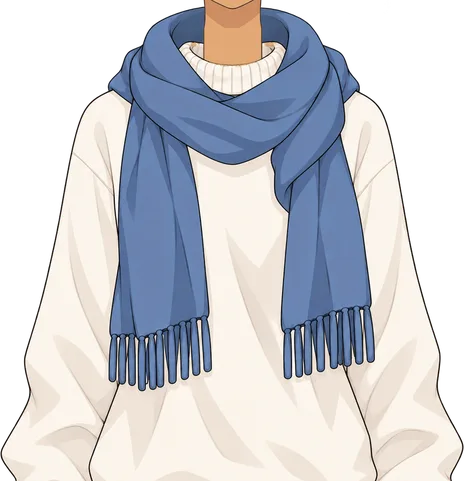
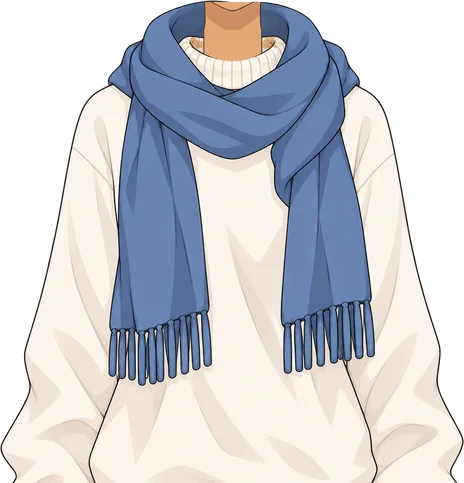
Sweater & scarf: slightly shorter neck

diff --git a/sw.js b/sw.js
@@ -1,5 +1,5 @@
 // Network first, cache as fallback: updates show up right away when online, and the app still opens offline.
-const CACHE = 'pumpelek-v18';
+const CACHE = 'pumpelek-v19';
 const ASSETS = [
   './', 'index.html', 'manifest.webmanifest', 'css/style.css',
   'js/util.js', 'js/seed.js', 'js/avatar-art.js', 'js/avatar.js', 'js/store.js', 'js/srs.js', 'js/csv.js',

diff --git a/tools/avatar-art/export_outfits.py b/tools/avatar-art/export_outfits.py
@@ -93,7 +93,7 @@ for n, t in T.items():
         sa = np.array(s)
         # the neck goes down to the inner front edge of the turtleneck: a shallow smile-shaped curve (marked by hand on the picture)
         for x in range(sa.shape[1]):
-            lim = int(round(724 - 14 * ((x - 561) / 58.0) ** 2)) - 2
+            lim = int(round(709 - 14 * ((x - 561) / 58.0) ** 2)) - 2
             sa[max(lim, 0):, x, 3] = 0
         layer = Image.alpha_composite(layer, Image.fromarray(sa, 'RGBA'))
     else:
